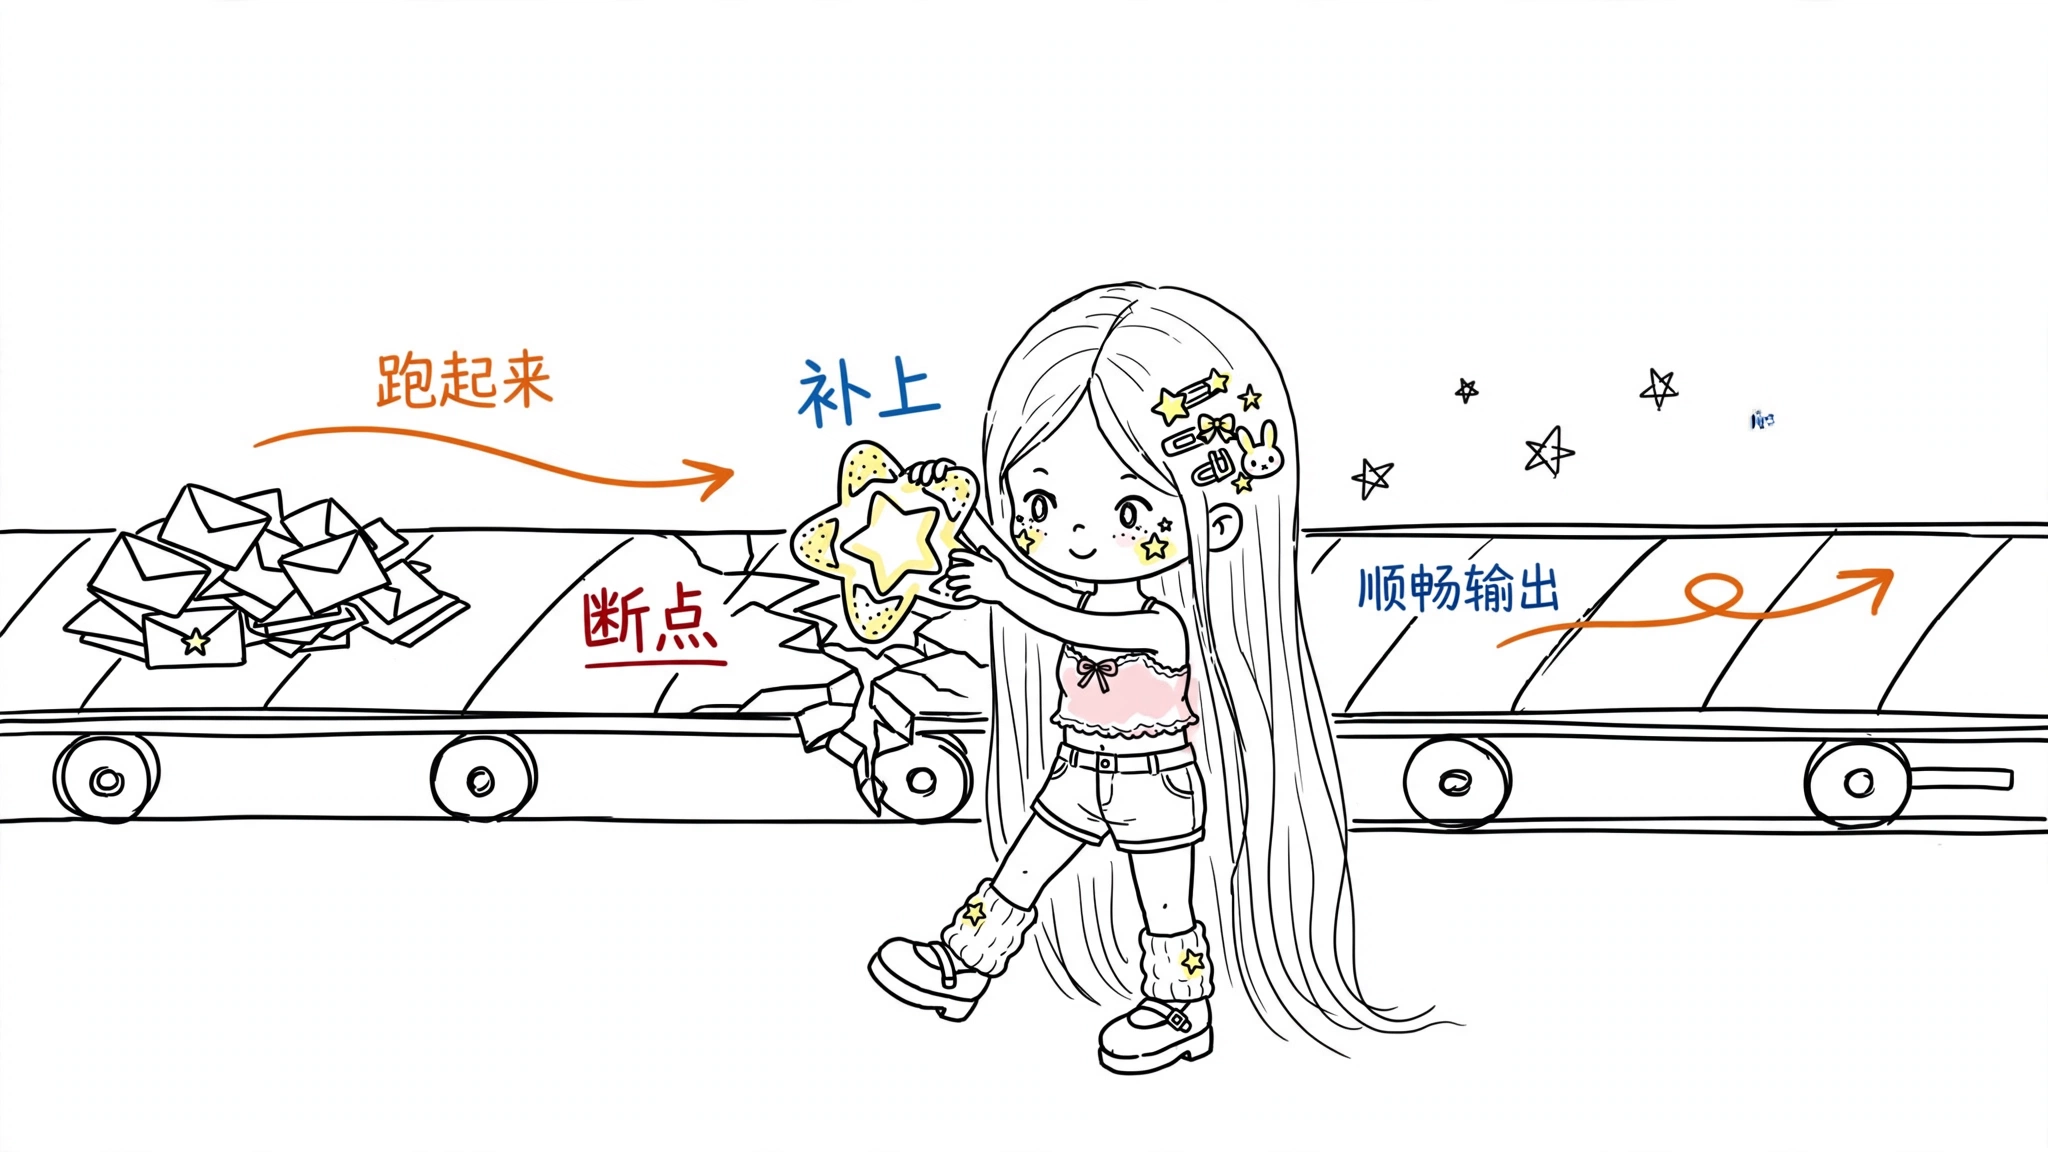
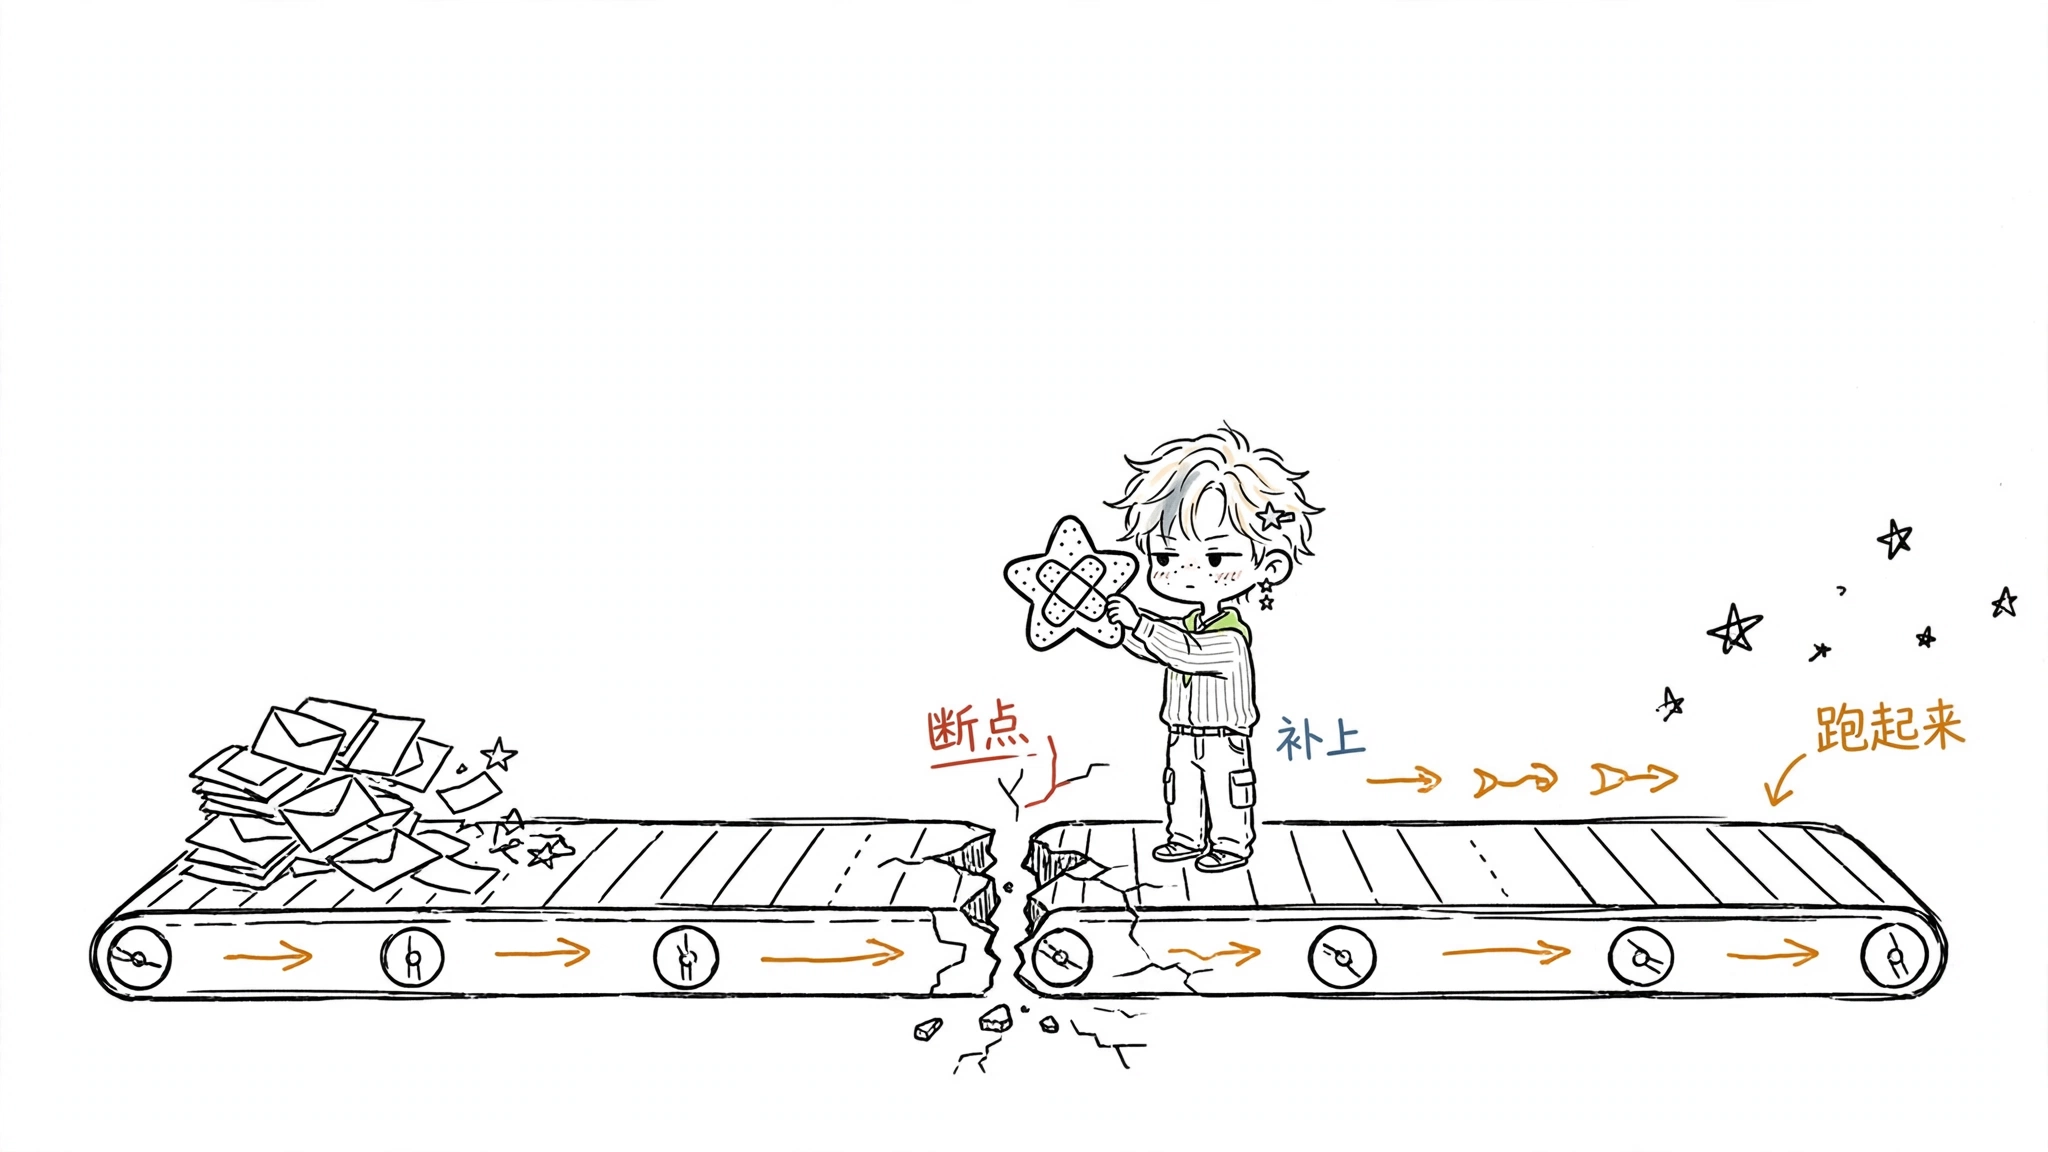
v1.1.0: IP更换为酷男孩小星(Xing)，全局加码小小的一只，4张示例重画

diff --git a/CHANGELOG.md b/CHANGELOG.md
@@ -1,5 +1,12 @@
 # Changelog
 
+## v1.1.0 — 2026-10-03
+
+- IP 更换：小派（长发女孩）→ 小星（Xing，短发酷男孩）。用户明确"给的是男孩子"，角色圣经、CHARACTER LOCK（精致版＋手绘版）、基准图（全身版＋脸部特写验脸锚点）全部重写；文档中代词与气质描述同步为男孩
+- 全局加码"小小的一只"：远景全身、全身 ≤1/3 画面高（目标 1/4）；构图铁律"先铺大场景，再把小小的小星放进去"；太大直接判废重画，不做局部修改（style-dna / prompt-template / composition-patterns / qa-checklist / SKILL.md 同步）
+- 基准图更新为用户新发的彩色真实人物风参考图（face-closeup.jpg 设为验脸锚点，不许换脸）
+- 4 张示例图按男孩版重画：补上断点 / 一鱼多吃（星星面团版）/ 信任桥 / 内容发酵；巨型印章为备选场景
+
 ## v1.0.1 — 2026-10-03
 
 - 方向修正：配图体系恢复白底手绘（用户反馈：之前的小黑本就是小小的手绘白底风，不应全改）。"甜美精致"仅保留为小派人设本身；配图执行保持黑色手绘线稿＋纯白背景＋红橙蓝批注
